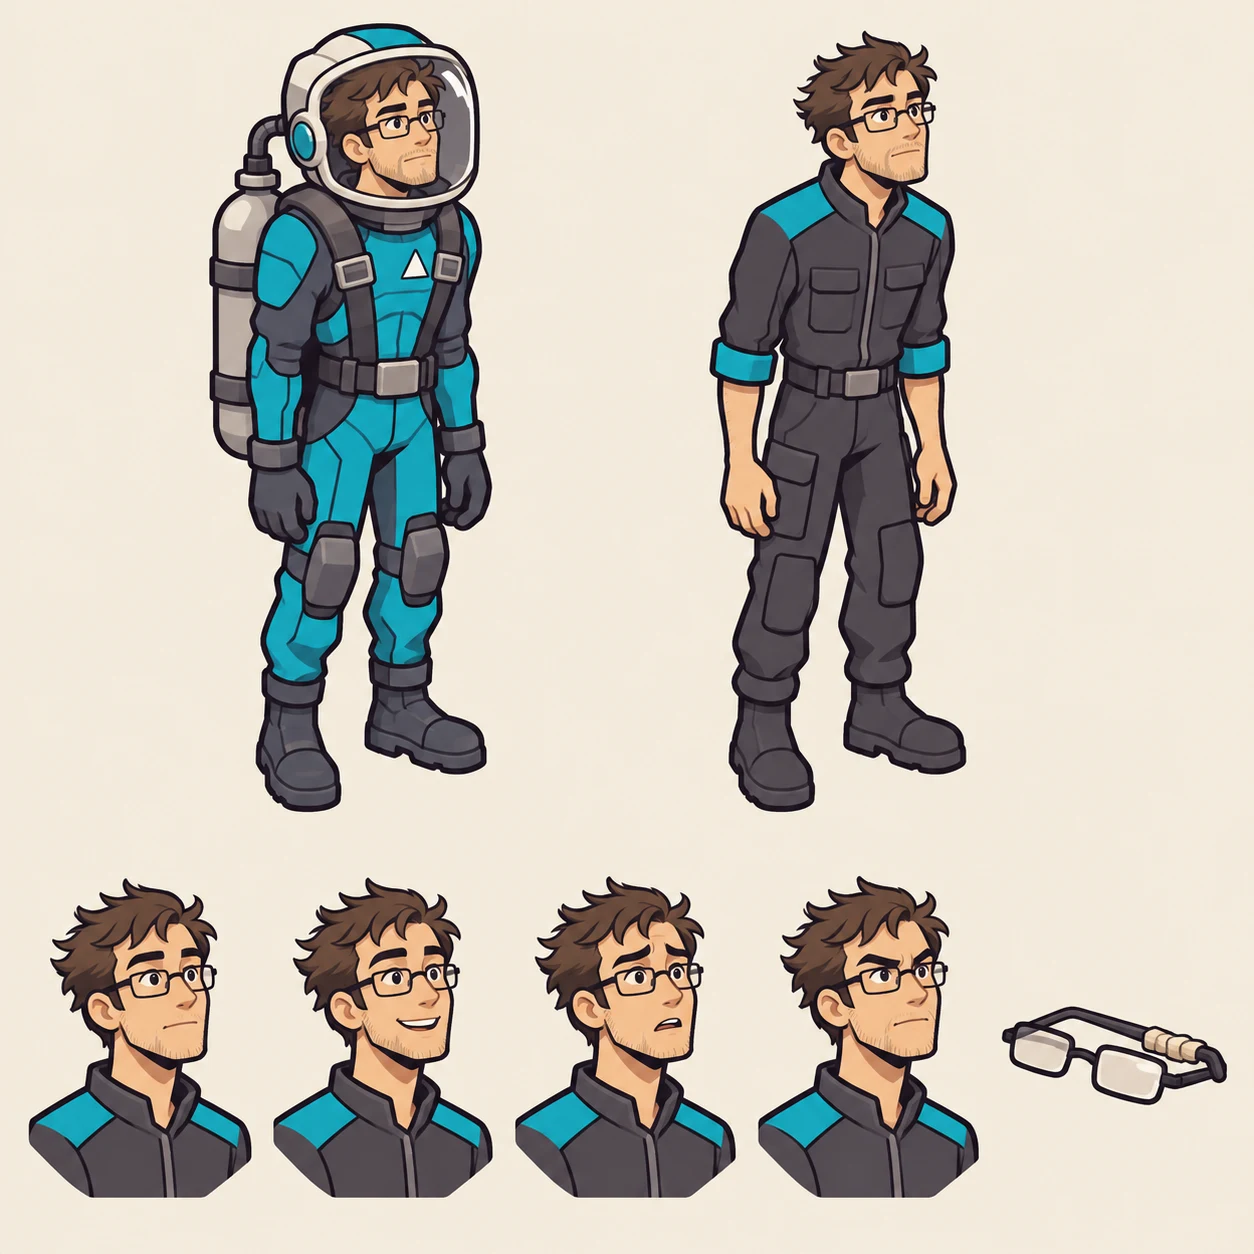
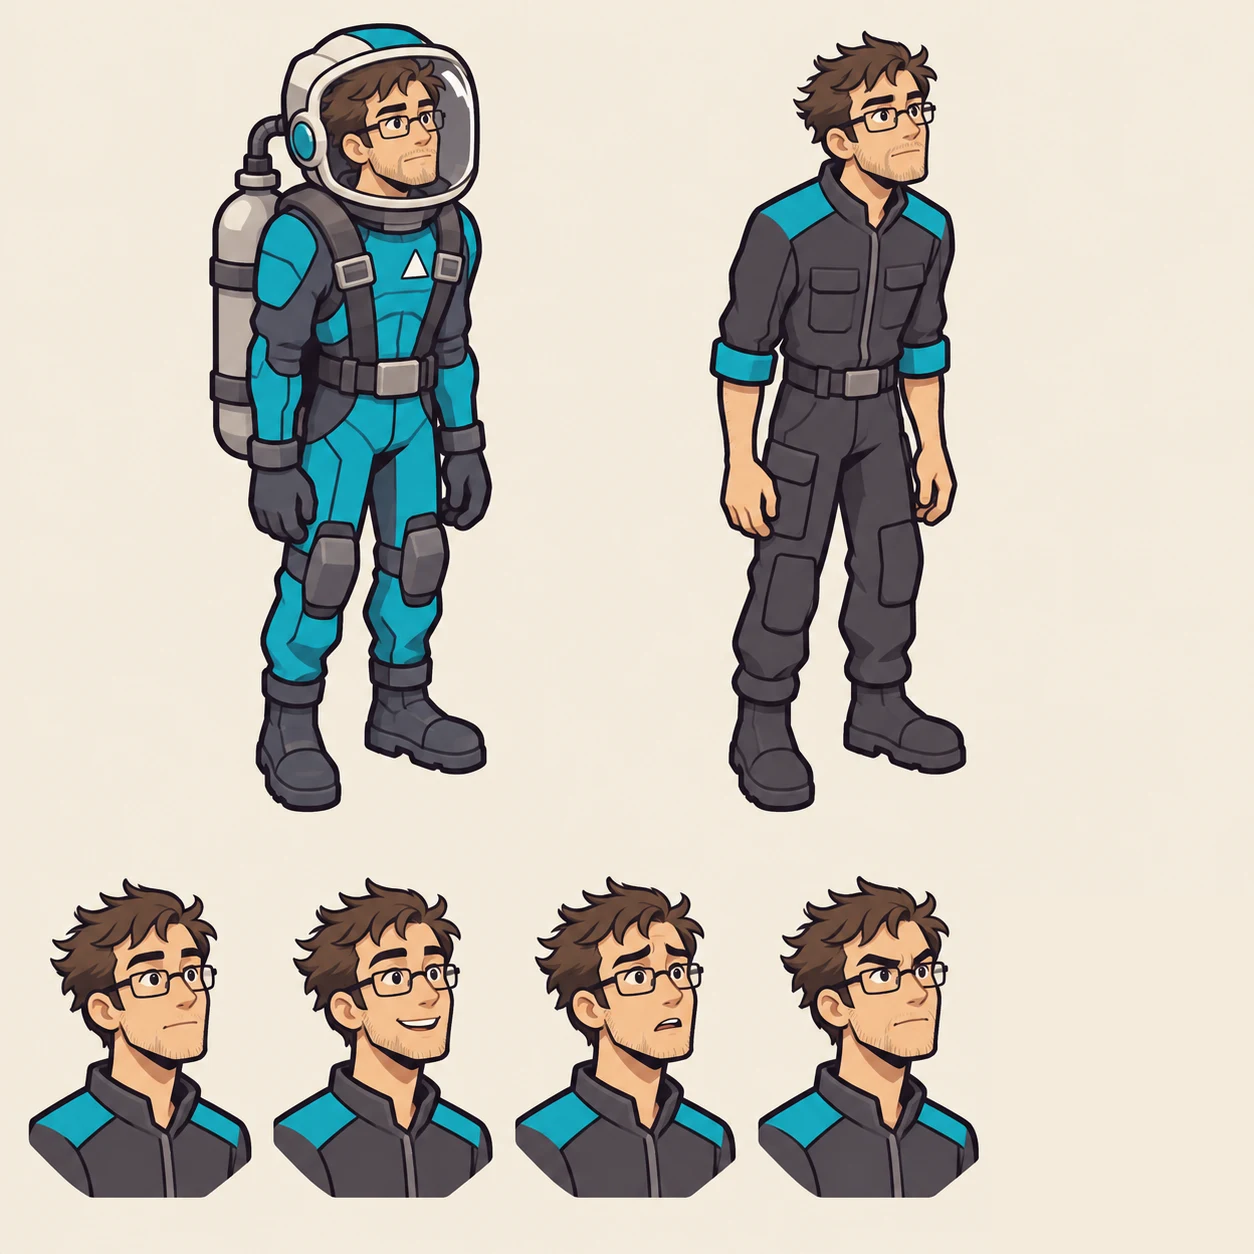
Buồng người đã mất đóng thành hòm dùng chung, bỏ 4 vật để lại theo Lead

Changed region(s): [[0.7775, 0.7775, 0.9952, 0.9019]]

diff --git a/art/C/05-nhan-vat/demo-pc/prompt/xoavat.py b/art/C/05-nhan-vat/demo-pc/prompt/xoavat.py
@@ -1,0 +1,11 @@
+# Xóa vật để lại ở góc phải dưới, tô bằng màu nền lấy mẫu ngay trên vùng xóa
+import statistics
+from PIL import Image, ImageDraw
+X0 = {"pc1": 1025, "pc2": 992, "pc3": 1020, "pc4c": 1012}
+for n, x0 in X0.items():
+    im = Image.open(f"out/{n}.png").convert("RGB")
+    px = [im.getpixel((x, y)) for x in range(x0, 1250, 5) for y in range(860, 890, 3)]
+    bg = tuple(int(statistics.median(c[i] for c in px)) for i in range(3))
+    ImageDraw.Draw(im).rectangle((x0, 895, 1253, 1253), fill=bg)
+    im.save(f"out2/{n}.png")
+    print(n, bg)

diff --git a/projects/game-moi/gdd/he-thong/cot-truyen.md b/projects/game-moi/gdd/he-thong/cot-truyen.md
@@ -544,14 +544,14 @@ Hồ sơ ngoại hình và yêu cầu art do gd-character giữ ở `ho-so-nhan-
 
 **Tính cách bốn hồ sơ mặc định** (GD-079) `MVP`
 
-Tính cách của PC chỉ hiện qua kênh không phải lời thoại: idle trong trạm, biểu cảm, đồ vật, mô tả preset, cách người vớt nhắc. Không có câu nói nào của PC. Nghề cũ thuộc kíp vận hành của Cradle, chỉ là nền, không ai thành chuyên gia: mở tính năng trạm vẫn là việc của người vớt. Bốn người chung một khuôn: nền là người thường làm việc ở hậu trường con tàu, hài đến từ tính cách chứ không từ câu đùa.
+Tính cách của PC chỉ hiện qua kênh không phải lời thoại: idle trong trạm, biểu cảm, mô tả preset, cách người vớt nhắc. Không có câu nói nào của PC. Nghề cũ thuộc kíp vận hành của Cradle, chỉ là nền, không ai thành chuyên gia: mở tính năng trạm vẫn là việc của người vớt. Bốn người chung một khuôn: nền là người thường làm việc ở hậu trường con tàu, hài đến từ tính cách chứ không từ câu đùa.
 
-| Mã | Tên, quốc gia | Giới tính, tuổi | Da và tóc | Nghề cũ trên Cradle (chỉ là nền) | 3 nét tính cách | Thói quen nhìn thấy (idle đứng tại chỗ) | Nét mặt | Vật để lại khi buồng hỏng | Nhãn |
-|---|---|---|---|---|---|---|---|---|---|
-| PC-1 | Nguyễn Việt, Việt Nam | Nam, khoảng 29 | Da sáng ngả vàng nhạt, tóc đen dài ngang vai búi gọn dưới mũ | Nhân viên trực ca ở khu ngủ đông | Bền bỉ, ít lời, bướng một cách bình tĩnh | Vươn vai xoay cổ tay một lần rồi chỉnh lại quai đai. Khi đứng lâu thì ngẩng nhìn ra xa | Mắt sáng và thẳng, cằm hơi ngẩng, môi mím nhẹ khi bình thường | Một cuốn sổ nhỏ bìa mòn, trang cuối còn trống | MVP |
-| PC-2 | Jonas Weber, Đức | Nam, khoảng 34 | Da sáng, tóc nâu rối, râu lún phún | Nhân viên bảo trì băng tải và cửa khoang ở kho Cradle | Ngay thật, tốt bụng, chậm một nhịp | Đẩy gọng kính trong mũ dù kính không trượt, rồi nhìn quanh chậm | Mắt mở to chăm chú, hơi gù khi nghe, miệng mím khi nghĩ | Cặp kính gập, một gọng quấn băng keo | MVP |
-| PC-3 | Mei Tanaka, Nhật Bản | Nữ, khoảng 26 | Da sáng, tóc đen ngắn bồng | Nhân viên dịch vụ khu ở tập thể của đoàn | Thực tế, nhanh nhẹn, hay bướng | Vỗ balo hai cái rồi xoay tròn tại chỗ nhìn quanh | Dáng nhỏ, đầu hơi nghiêng, má phồng khi tập trung, cười nhanh rồi tắt | Một con thú nhồi bông nhỏ buộc ở quai balo | Sau MVP |
-| PC-4 | Niamh Doyle, Ireland | Nữ, khoảng 36 | Da sáng có tàn nhang, tóc nâu đỏ buộc đuôi thấp gọn trong mũ | Nhân viên bốc xếp ở bến hàng Cradle | Điềm tĩnh, hiền, vụng về khi cần tinh tế | Gãi gáy khi thấy mình bị nhìn, rồi xoay vai cho đỡ mỏi | Dáng cao mảnh, mắt hiền, nhìn xuống khi bị khen | Một đôi găng da sờn, xếp ngay ngắn | Sau MVP |
+| Mã | Tên, quốc gia | Giới tính, tuổi | Da và tóc | Nghề cũ trên Cradle (chỉ là nền) | 3 nét tính cách | Thói quen nhìn thấy (idle đứng tại chỗ) | Nét mặt | Nhãn |
+|---|---|---|---|---|---|---|---|---|
+| PC-1 | Nguyễn Việt, Việt Nam | Nam, khoảng 29 | Da sáng ngả vàng nhạt, tóc đen dài ngang vai búi gọn dưới mũ | Nhân viên trực ca ở khu ngủ đông | Bền bỉ, ít lời, bướng một cách bình tĩnh | Vươn vai xoay cổ tay một lần rồi chỉnh lại quai đai. Khi đứng lâu thì ngẩng nhìn ra xa | Mắt sáng và thẳng, cằm hơi ngẩng, môi mím nhẹ khi bình thường | MVP |
+| PC-2 | Jonas Weber, Đức | Nam, khoảng 34 | Da sáng, tóc nâu rối, râu lún phún | Nhân viên bảo trì băng tải và cửa khoang ở kho Cradle | Ngay thật, tốt bụng, chậm một nhịp | Đẩy gọng kính trong mũ dù kính không trượt, rồi nhìn quanh chậm | Mắt mở to chăm chú, hơi gù khi nghe, miệng mím khi nghĩ | MVP |
+| PC-3 | Mei Tanaka, Nhật Bản | Nữ, khoảng 26 | Da sáng, tóc đen ngắn bồng | Nhân viên dịch vụ khu ở tập thể của đoàn | Thực tế, nhanh nhẹn, hay bướng | Vỗ balo hai cái rồi xoay tròn tại chỗ nhìn quanh | Dáng nhỏ, đầu hơi nghiêng, má phồng khi tập trung, cười nhanh rồi tắt | Sau MVP |
+| PC-4 | Niamh Doyle, Ireland | Nữ, khoảng 36 | Da sáng có tàn nhang, tóc nâu đỏ buộc đuôi thấp gọn trong mũ | Nhân viên bốc xếp ở bến hàng Cradle | Điềm tĩnh, hiền, vụng về khi cần tinh tế | Gãi gáy khi thấy mình bị nhìn, rồi xoay vai cho đỡ mỏi | Dáng cao mảnh, mắt hiền, nhìn xuống khi bị khen | Sau MVP |
 
 Ghi chú để bốn người khác nhau và không trùng người vớt:
 
@@ -562,7 +562,7 @@ Ghi chú để bốn người khác nhau và không trùng người vớt:
 - Biểu cảm 8 loại (`ho-so-nhan-vat.md` 2b.1) là bộ chung. Mỗi hồ sơ có biểu cảm "bình thường" đặt khác nhau như cột Nét mặt ở trên, và cùng một sự kiện thì thời gian giữ biểu cảm khác nhau. Các hoạt cảnh idle ở bảng là clip đứng tại chỗ, tắt được trong tùy chọn, không chạy khi đang điều khiển.
 - Mô tả ngắn trên màn chọn preset (không phải lời của PC, ghi ngôi thứ ba, tối đa 80 ký tự, ví dụ trình gd-ux): Việt "Bền bỉ, ít lời. Cứ bình tĩnh đi tiếp." Jonas "Ngay thật, tốt bụng. Chậm một nhịp." Mei "Nhanh nhẹn, thực tế. Hay bướng." Niamh "Điềm tĩnh, hiền. Hơi vụng." Màn chọn luôn kèm một dòng cố định: "Bốn hồ sơ giống nhau về chỉ số và kỹ năng."
 - Người vớt nhắc tới họ qua nét nhìn thấy, không qua lời của PC. Ví dụ hướng: Ingrid nhận xét người hay vươn vai giữa lúc căng là người không chịu căng theo, Linh nhận xét người hay đẩy kính là người nghĩ xong mới nói, Yusuf mời trà người đang xoay tròn nhìn quanh. Chỉ nhắc nét của hồ sơ đang có người chơi dùng, gọi theo tên người chơi đặt (luật 14). Hồ sơ buồng hỏng không được người vớt nhắc tên.
-- Vật để lại đặt trên hoặc cạnh buồng tắt, bấm vào hiện dòng ở mục "Dòng trên buồng đã tắt" (cuối file), không thêm cảnh. Vật là thứ nhìn thấy khớp với thói quen, người chơi tự đọc ra ai đã mất.
+- Buồng của người đã mất đóng nắp thành hòm: nắp kim loại kín che mặt kính, biển tên gắn trên nắp. Một asset hòm dùng chung cho mọi buồng tắt, tên trên biển là chữ của game, không vẽ vào ảnh. Bấm vào hòm hiện tên và dòng ở mục "Dòng trên buồng đã tắt" (cuối file), không thêm cảnh. Người chơi đọc ra ai đã mất qua biển tên.
 - Người vào sau (luật 11 mục 2, biến thể B, đặt tên mới) dùng chung thói quen và idle của slot, vì thói quen gắn với hình preset chứ không gắn với người chơi. Người chơi nhập vai tự do: tính cách chỉ là nền nhìn thấy, không ép hành vi hay kỹ năng.
 
 #### Năm người vớt
@@ -631,7 +631,7 @@ Cảnh tỉnh dậy theo số người tỉnh dậy ban đầu host chọn (C2):
 | 4 | Cả bốn buồng mở. Không có buồng tắt | Như trên |
 
 - Cảnh dài như nhau với mọi số người. Không nhân vật nào nói thay người chơi.
-- Buồng tắt bấm vào được: hiện tên người trong buồng và một dòng (bảng "Dòng trên buồng đã tắt của Ember" ở mục 13). Không bắt buộc, không phải vật manh mối.
+- Buồng tắt đóng nắp thành hòm có biển tên (hòm dùng chung, mục Tính cách bốn hồ sơ mặc định). Bấm vào hòm: hiện tên người trong buồng và một dòng (bảng "Dòng trên buồng đã tắt của Ember" ở mục 13). Không bắt buộc, không phải vật manh mối.
 - Chơi bốn người thì Ember không có buồng tắt. Người chơi gặp buồng tắt lần đầu ở Station Cinder (MM1.3), nên không thiếu nhịp mất mát.
 
 Người chơi vào sau (C2):
@@ -1203,7 +1203,7 @@ Chữ hoa trong cột cách đọc chỉ phần nhấn. Cột này dùng nội b
 
 ### Dòng trên buồng đã tắt của Ember `MVP`
 
-Hiện khi người chơi bấm vào một buồng tắt (mục 2.7). Hồ sơ nào có người chơi dùng thì không có dòng này.
+Hiện khi người chơi bấm vào hòm của một buồng tắt (mục 2.7). Hồ sơ nào có người chơi dùng thì không có dòng này.
 
 | Mã | Hồ sơ | Dòng |
 |---|---|---|
@@ -1334,6 +1334,7 @@ Khi tỉnh khỏi giấc ngủ đông, Nguyễn Việt phát hiện trạm Ember
 | 2026-11-25 | Thêm bảng tính cách PC-1 đến PC-4 (nghề cũ, quốc gia, 3 nét, thói quen, gợi ý dáng và mặt, vật để lại khi buồng hỏng) ở mục Tổ Ember. Không đổi luật lời thoại, tên, slot, màu | GD-079, Lead yêu cầu bổ sung tính cách PC | gd-story |
 | 2026-11-25 | Lượt 2 GD-079: đổi đội hình PC theo Lead. PC-1 nam Việt Nam Lê Quốc Bảo (Lead sửa cùng ngày: nam chính, PC-4 thành nữ) thay hồ sơ PC-1 cũ, PC-4 nữ Niamh Doyle (Ireland) thay hồ sơ PC-4 cũ, Jonas và Mei giữ tên. Bảng thêm giới tính, tuổi, da và tóc, nét mặt, nhãn. Bỏ đồ vật và thói quen gợi vai (hộp y tế, đếm khẩu phần, hướng dẫn, đếm khóa). Đổi tên ở truyện kể, dòng buồng tắt, khối GAME STORY | Lead chốt 2026-11-25: bốn người ngang luật, nhân vật chính là người Việt | gd-story |
 | 2026-11-25 | Lead đặt tên PC-1 là Nguyễn Việt (gọi ngắn Việt), thay Lê Quốc Bảo | GD-079 | GDM |
+| 2026-11-26 | Bỏ 4 vật để lại khi buồng hỏng (sổ, kính, thú bông, găng) và cột của nó. Buồng người đã mất đóng nắp thành một hòm dùng chung có biển tên, giữ 4 dòng SO_BUONG. Lead: "khi chết thì cho đóng hòm hết", chốt "Đổi sang hòm" | GD-078 | GDM |
 
 ### Lệch đã xong (chuyển từ mục Lệch với vai khác, 2026-11-23)
 

diff --git a/projects/game-moi/gdd/he-thong/ho-so-nhan-vat.md b/projects/game-moi/gdd/he-thong/ho-so-nhan-vat.md
@@ -239,14 +239,14 @@ Clip trong trạm (top-down 45 độ, 3 hướng vẽ lên, xuống, ngang, ngan
 | 8 | Thức dậy từ buồng ngủ đông | 3,0 | Không | MVP |
 | 9 | Bước xuống từ xuồng hoặc Skiff (Amara, Yusuf) | 2,0 | Không | Sau MVP |
 
-Clip idle đứng tại chỗ riêng từng preset (GD-079, thay clip Idle chung ở dòng 1 khi đứng yên trong trạm, 2,0 giây loop, tắt được trong tùy chọn, không chạy khi đang điều khiển) và vật để lại trên buồng tắt (đặt trên hoặc cạnh buồng, bấm vào hiện dòng ở `cot-truyen.md` mục "Dòng trên buồng đã tắt"):
+Clip idle đứng tại chỗ riêng từng preset (GD-079, thay clip Idle chung ở dòng 1 khi đứng yên trong trạm, 2,0 giây loop, tắt được trong tùy chọn, không chạy khi đang điều khiển). Buồng của preset không ai chọn đóng nắp thành hòm dùng chung có biển tên, bấm vào hiện dòng ở `cot-truyen.md` mục "Dòng trên buồng đã tắt":
 
-| Preset | Clip idle | Vật để lại trên buồng tắt | Nhãn |
-|---|---|---|---|
-| PC-1 Việt | Vươn vai xoay cổ tay một lần rồi chỉnh lại quai đai. Đứng lâu thì ngẩng nhìn ra xa | Một cuốn sổ nhỏ bìa mòn, trang cuối còn trống | MVP |
-| PC-2 Jonas | Đẩy gọng kính trong mũ dù kính không trượt, rồi nhìn quanh chậm | Cặp kính gập, một gọng quấn băng keo | MVP |
-| PC-3 Mei | Vỗ balo hai cái rồi xoay tròn tại chỗ nhìn quanh | Một con thú nhồi bông nhỏ buộc ở quai balo | Sau MVP |
-| PC-4 Niamh | Gãi gáy khi thấy mình bị nhìn, rồi xoay vai cho đỡ mỏi | Một đôi găng da sờn, xếp ngay ngắn | Sau MVP |
+| Preset | Clip idle | Nhãn |
+|---|---|---|
+| PC-1 Việt | Vươn vai xoay cổ tay một lần rồi chỉnh lại quai đai. Đứng lâu thì ngẩng nhìn ra xa | MVP |
+| PC-2 Jonas | Đẩy gọng kính trong mũ dù kính không trượt, rồi nhìn quanh chậm | MVP |
+| PC-3 Mei | Vỗ balo hai cái rồi xoay tròn tại chỗ nhìn quanh | Sau MVP |
+| PC-4 Niamh | Gãi gáy khi thấy mình bị nhìn, rồi xoay vai cho đỡ mỏi | Sau MVP |
 
 Biến thể mảnh bộ đồ (xem `nguoi-choi.md` mục 2.6):
 
@@ -280,7 +280,7 @@ Danh sách yêu cầu để GDM đưa vào tab Assets:
 | CHR-PART | Mảnh bộ đồ theo 5 trục | 21 biến thể tổng (5, 4, 4, 5, 3), MVP cần 9 (bình 2, vỏ 1, bộ đẩy 2, túi 2, đai 2) | MVP |
 | CHR-ANIM | Clip người chơi ngoài và trong trạm | 17 và 8 (cộng 1 Sau MVP) | MVP |
 | CHR-ANIM-PC-IDLE | Clip idle riêng 4 preset (bảng trên) | 4 (2 MVP) | MVP |
-| CHR-PROP-PC | Vật để lại trên buồng tắt, 1 vật mỗi preset | 4 (2 MVP) | MVP |
+| CHR-PROP-HOM | Hòm buồng ngủ đông của người đã mất: buồng đóng nắp kim loại kín, biển tên trên nắp, tên là chữ của game. Một asset dùng chung cho mọi buồng tắt | 1 | MVP |
 | CHR-ANIM-NPC | Clip riêng Ingrid, Linh, Tikko | 14 (bảng dưới) | MVP |
 | CHR-RIG | Rig nhân loại, rig Oru (Tikko, TA02), rig trẻ em (Wren) | 2 MVP, 3 tổng | MVP |
 | CHR-TA02 | Biến thể màu Oru không tên cho TA02 | 1 | MVP |
@@ -377,3 +377,4 @@ Kiểm: không hồ sơ nào đổi theo số người ngoài số preset hiển
 | 2026-11-25 | Đội hình bốn PC mới: PC-1 Lê Quốc Bảo (nam Việt Nam), PC-4 Niamh Doyle (nữ Ireland), bảng giới tính, tuổi, da, tóc, nét mặt, bỏ râu và hộp y tế PC-4 (đổi túi dụng cụ thường), thêm 4 clip idle và 4 vật để lại vào yêu cầu art mục 7, bốn PC ngang nhau về luật | GD-079 | gd-character |
 | 2026-11-25 | Lead đặt tên PC-1 là Nguyễn Việt (gọi ngắn Việt), thay Lê Quốc Bảo | GD-079 | GDM |
 | 2026-11-25 | PC-4 đổi dáng: cao và mảnh, vai hẹp, bỏ vai rất rộng. Lead xem concept: "PC-4 đô con quá, cô ấy là phụ nữ mà" | GD-078 | GDM |
+| 2026-11-26 | Bỏ CHR-PROP-PC (4 vật để lại, 2 MVP), thay bằng CHR-PROP-HOM (1 hòm dùng chung có biển tên). Lead: "khi chết thì cho đóng hòm hết" | GD-078 | GDM |

diff --git a/art/C/05-nhan-vat/demo-pc/prompt.md b/art/C/05-nhan-vat/demo-pc/prompt.md
@@ -5,7 +5,7 @@ Ngày 2026-11-25. GPT (Codex CLI, image_gen) vẽ theo bảng bối cảnh ở `
 | File | Nội dung |
 |---|---|
 | `doi-hinh-4-pc.webp` | Bảng ghép 4 tấm, có nhãn tên, quốc gia, giới tính, tuổi, slot |
-| `pc1.webp` - `pc4.webp` | Mỗi tấm 1254x1254: bộ đồ ngoài đội mũ, đồ trạm, 4 biểu cảm (bình thường, vui, lo, quyết tâm), vật để lại |
+| `pc1.webp` - `pc4.webp` | Mỗi tấm 1254x1254: bộ đồ ngoài đội mũ, đồ trạm, 4 biểu cảm (bình thường, vui, lo, quyết tâm) |
 | `prompt/` | Prompt từng tấm và `ghep.py` (ghép và ghi nhãn bằng PIL) |
 
 ## Cách làm
@@ -26,7 +26,8 @@ Ngày 2026-11-25. GPT (Codex CLI, image_gen) vẽ theo bảng bối cảnh ở `
 | Silhouette theo hồ sơ | Ăng-ten chữ L, bình Oxy ngang | Bình Oxy dọc, kính | Mũ trứng có chóp sáng, balo tròn | Cao mảnh, bình Oxy trên vai, túi hông |
 | Đồ trạm xám than, màu slot ở vai và cổ tay | Đạt | Đạt | Đạt | Đạt |
 
+Vật để lại ở góc phải dưới đã xóa ngày 2026-11-26 (Lead chốt đổi sang hòm dùng chung): `python -X utf8 -P prompt/xoavat.py` tô màu nền lấy mẫu ngay trên vùng xóa, rồi ghép lại. Ảnh gốc GPT vẫn còn vật.
+
 Lệch còn để ngỏ:
 - PC-3: tóc dài tới cằm, gợn sóng, chưa đúng kiểu "ngắn bồng".
 - PC-3 chưa thấp hơn rõ so với người khác.
-- Vật để lại ở góc mỗi tấm chưa bỏ, chờ Lead chốt ý "chết thì đóng hòm hết".

diff --git a/projects/game-moi/DECISIONS.md b/projects/game-moi/DECISIONS.md
@@ -519,3 +519,4 @@ Lead: "4 người chơi này như nhau trước nhé, không có vai trò riêng
 - Hệ quả: đổi tên ở cot-truyen.md, GAME STORY, ho-so-nhan-vat.md, Player, MVP Criteria Checklist, Book. File QA cũ và DECISIONS cũ giữ nguyên làm lịch sử. Ảnh cảnh bay đã duyệt 2026-11-23 ghi "Noor" vẫn dùng được vì mặt không thấy qua mũ.
 - Lead đặt tên PC-1: "tên là Nguyễn Việt" (thay tên gd-story đề xuất Lê Quốc Bảo). Tên gọi ngắn trong truyện là Việt.
 - Lead xem concept 4 PC do GPT vẽ: "PC-4 đô con quá, cô ấy là phụ nữ mà". PC-4 Niamh đổi sang dáng cao và mảnh, vai hẹp, giữ chiều cao 1,2 u. Bỏ "vai rất rộng" ở silhouette và nét mặt (ho-so-nhan-vat.md 2b.1, cot-truyen.md bảng tính cách).
+- 2026-11-26, Lead: "khi chết thì cho đóng hòm hết", chốt "Đổi sang hòm". Bỏ 4 vật để lại trên buồng tắt (sổ, kính, thú bông, găng). Buồng của preset không ai chọn đóng nắp thành hòm có biển tên, một asset dùng chung (CHR-PROP-HOM, Assets STT 11), giữ 4 dòng SO_BUONG khi bấm vào hòm. Concept 4 PC đã xóa vật ở góc.
